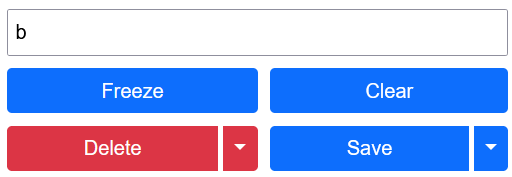
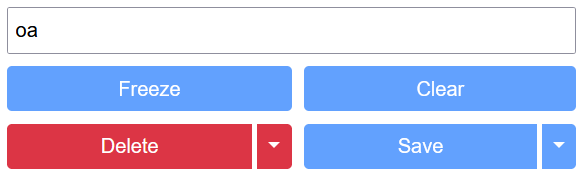
done with help page?

diff --git a/templates/help.html b/templates/help.html
@@ -59,7 +59,7 @@ The following steps are applied in order:
 <hr>
 <h2 id="designing_a_system">Designing a system</h2>
 
-Using <b>abbrv</b> to design a new shorthand system will typically involves four main steps: 1) drafting your glyphs, 2) abbreviating common words, 3) defining pre-processing rules, and 4) introducing "modes".
+Using <b>abbrv</b> to design a new shorthand system will typically involves four main steps: 1) drafting your glyphs, 2) abbreviating common phrases, 3) introducing "modes", and 4) defining pre-processing rules.
 
 <br>
 <br>
@@ -120,59 +120,76 @@ When working with multi-spline glyphs, using <b>ctrl + left-click</b> to start a
 Note that only the knot points for the spline which is currently being edited are shown.
 
 <div style="text-align: center; padding: 20px;">
-    <img src="/static/data/images/grid_oa_o.png" alt="A second spline is used for the 'a' in the glyph 'oa'." style="width: 253px; height: auto"/>
+    <img src="/static/data/images/grid_oa_o.png" alt="One spline is used for the 'o' in the glyph 'oa'. The beginning of the first spline defines the start of the glyph." style="width: 253px; height: auto"/>
     <figcaption style="margin-top: 10px;">One spline is used for the 'o' in the glyph 'oa'. The beginning of the first spline defines the start of the glyph.</figcaption>
     <br>
-    <img src="/static/data/images/grid_oa_a.png" alt="A second spline is used for the 'a' in the glyph 'oa'." style="width: 253px; height: auto"/>
+    <img src="/static/data/images/grid_oa_a.png" alt="A second spline is used for the 'a'." style="width: 253px; height: auto"/>
     <figcaption style="margin-top: 10px;">A second spline is used for the 'a'.</figcaption>
     <br>
-    <img src="/static/data/images/grid_oa_end.png" alt="A third spline is used to ensure that 'oa' joins to the next glyph at the end of the long 'o' line." style="width: 253px; height: auto"/>
+    <img src="/static/data/images/grid_oa_end.png" alt="And a third spline is used to specify the end of the glyph when joining to the next glyph in a word." style="width: 253px; height: auto"/>
     <figcaption style="margin-top: 10px;">And a third spline is used to specify the end of the glyph when joining to the next glyph in a word.</figcaption>
 </div>
 
+The buttons panel can be used for saving, deleting and "freezing" glyphs, and for clearing the currently selected spline.
+
 <div style="text-align: center; padding: 20px;">
-    <img src="/static/data/images/buttons.png" alt="A second spline is used for the 'a' in the glyph 'oa'." style="width: 40%; height: auto"/>
-    <figcaption style="margin-top: 10px;">The Orthic glyphs for the words 'it' and 'oat'. Note that the 't' spline connects to the top of the 'i' and the end of the longer line in 'oa', since this is where the glyphs were designed to end.</figcaption>
+    <img src="/static/data/images/buttons.png" alt="A second spline is used for the 'a' in the glyph 'oa'." style="width: 30%; height: auto"/>
+    <figcaption style="margin-top: 10px;">
+        The buttons panel and text fieldl of the draft page.
+        <br>
+        <b>Save</b>: save the current splines as a glyph corresponding to the text in the text field
+        <br>
+        <b>Delete</b>: delete the glyph a glyph corresponding to the text in the text field
+        <br>
+        <b>Freeze</b>: paint all the current splines onto the background
+        <br>
+        <b>Clear</b>: clear the currently selected splines
+        <br>
+    </figcaption>
+</div>
+
+<div style="text-align: center; padding: 20px;">
+    <img src="/static/data/images/frozen.png" alt="Frozen splines are painted onto the background, which can be useful when making adjustments to a glyph. If a spline is frozen, the 'Freeze' button will change to 'Unfreeze', which will remove the painted splines." style="width: 10%; height: auto"/>
+    <figcaption style="margin-top: 10px;">Frozen splines are painted onto the background, which can be useful when making adjustments to a glyph. If a spline is frozen, the 'Freeze' button will change to 'Unfreeze', which will remove the painted splines.</figcaption>
+</div>
+
+<div style="text-align: center; padding: 20px;">
+    <img src="/static/data/images/lists.png" alt="The list panels will show the currently saved glyphs, phrases, and modes." style="width: 30%; height: auto"/>
+    <figcaption style="margin-top: 10px;">The list panels will show the currently saved glyphs, phrases, and modes. You can click on the elements of the list to select them and display their splines.</figcaption>
 </div>
 
 <br>
-<h3 id="phrases">Phrases</h3>
-
 <br>
-<h3 id="modes">Modes</h3>
+<h3>Abbreviating common phrases</h3>
+When saving a glyph, you can choose the 'as phrase' option to specify that the glyph corresponds to an entire word or phrase.
+This is similar to a regular glyph, with the difference that it can only be used to represent an entire word rather than a subset of a word.
+For example, if you define a glyph for the word 'man', it will not also be used in the word 'woman'.
 
-<hr>
-<h2 id="rules">Functionality</h2>
-<br>
-
-There are three main components of <b>abbrv</b>, which users may interact with on their corresponding pages:
-
-<ul>
-    <li><b>write</b>: translating longhand into shorthand.</li>
-    <li><b>draft</b>: defining <a href="#glyphs">glyphs</a>, <a href="#phrases">phrases</a>, and <a href="#modes">modes</a>.</li>
-    <li><b>rules</b>: defining additional <a href="#rules">rules</a>.</li>
-</ul>
-
-Each of these components will be described further in this section.
+<div style="text-align: center; padding: 20px;">
+    <img src="/static/data/images/buttons_save.png" alt="The save and delete buttons both have 'mode' and 'phrase' options for saving/deleting the glyph of the word or phrase specified in the text field." style="width: 30%; height: auto"/>
+    <figcaption style="margin-top: 10px;">The save and delete buttons both have 'mode' and 'phrase' options for saving/deleting the glyph of the word or phrase specified in the text field.</figcaption>
+</div>
 
 <br>
 <br>
-<h3 id="rules">Rules</h3>
+<h3>Introducing modes</h3>
+A 'mode' is similar to a phrase and a regular glyph, with the additional flexibility of being able to be used to replace any pattern using a <a href="https://regexone.com/">regular expression</a>.
 
-When converting a line of text to the corresponding glyphs, there are only a few immutable rules to be aware of:
-<ul>
-    <br>
-    <li>The first glyph in a word is drawn as-is, using the baseline as the origin. So if the first knot of a glyph is not at the point (0, 0), the glyph may start above or below the line.</li>
-    <li>subsequent glyphs in the same word are shifted so that the first knot of the current glyph aligns with the last knot of the previous glyph.</li>
-    <li>All splines are drawn separately, allowing for sharp breaks between splines.</li>
-</ul>
-
-Although you will be able to <i>add</i> to the above list, u, <b>abbrv</b> does not currently support the ability to <i>remove</i> any of the above rules.
-If this is a problem for your shorthand system (e.g., if the positions of words should be drawn relative to the previous word's endpoint, rather than relative to the baseline), then you may need to patch <b>abbrv</b> to support your use-case.
+<div style="text-align: center; padding: 20px;">
+    <img src="/static/data/images/mode_popup.png" alt="When saving a glyph as a new mode, a popup window will appear to additionally specify the 'name' of the mode, and the regular expression pattern used for matching the mode." style="width: 30%; height: auto"/>
+    <figcaption style="margin-top: 10px;">When saving a glyph as a new mode, a popup window will appear to additionally specify the 'name' of the mode, and the regular expression pattern used for matching the mode.</figcaption>
+</div>
 
 <br>
 <br>
-<h3 id="draft">Page: draft</h3>
+<h3>Defining pre-processing rules</h3>
+A rule is a way of specifying find-and-replace operations that can be used to modify the text before mapping to glyphs.
+The <a href="{{ url_for('rules') }}">rules page</a> can be used for defining new rules.
+
+<div style="text-align: center; padding: 20px;">
+    <img src="/static/data/images/rules.png" alt="A rule is created by specifying a name, a regular expression for matching patterns, and a regular expression for replacing any matched patterns." style="width: 100%; height: auto"/>
+    <figcaption style="margin-top: 10px;">A rule is created by specifying a name, a regular expression for matching patterns, and a regular expression for replacing any matched patterns.</figcaption>
+</div>
 
 </div>
 {% endblock %}
